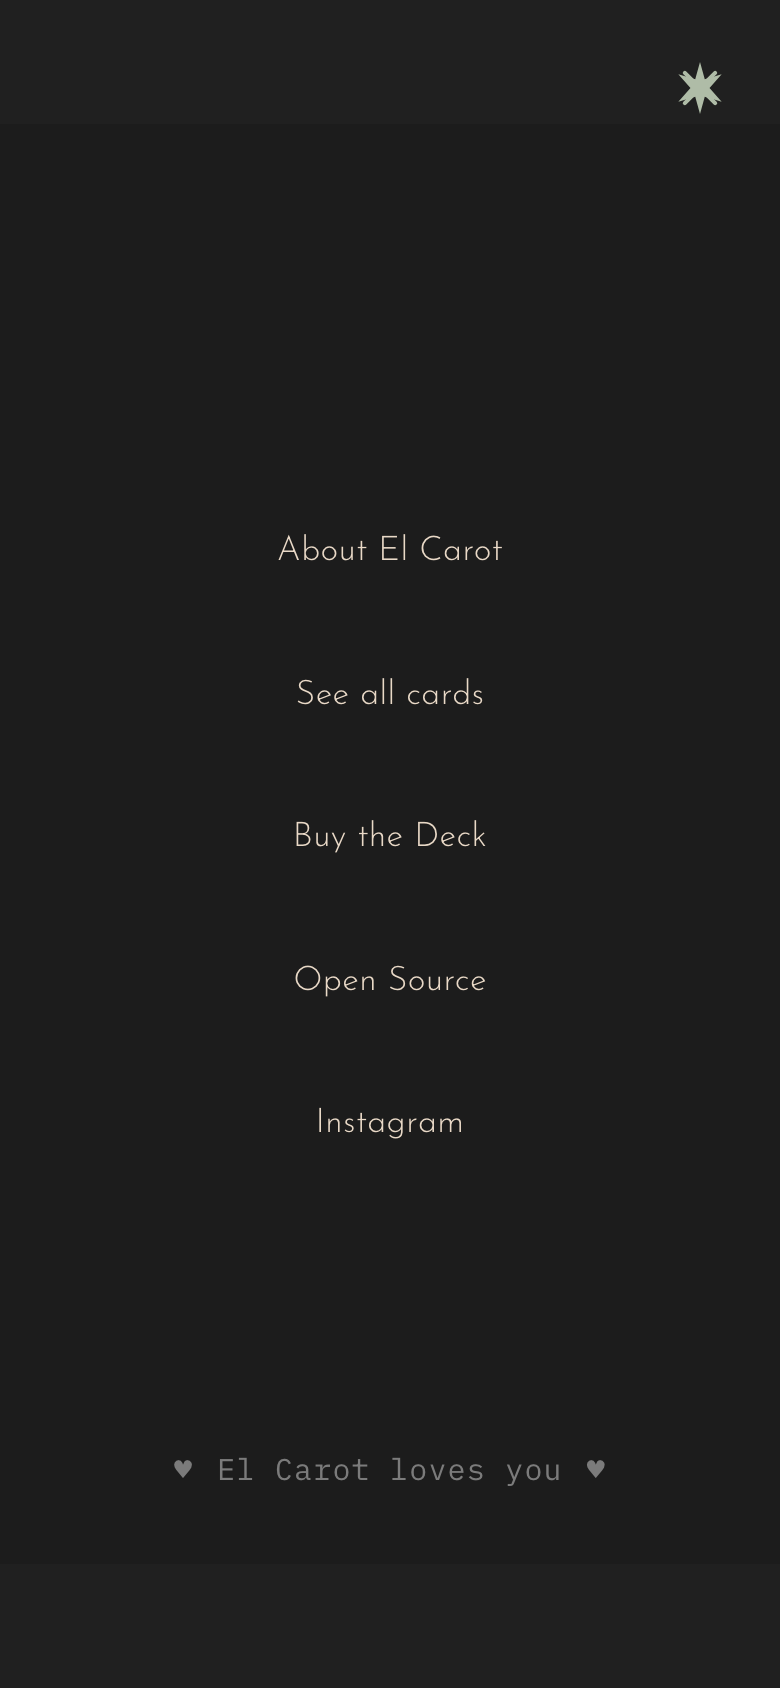
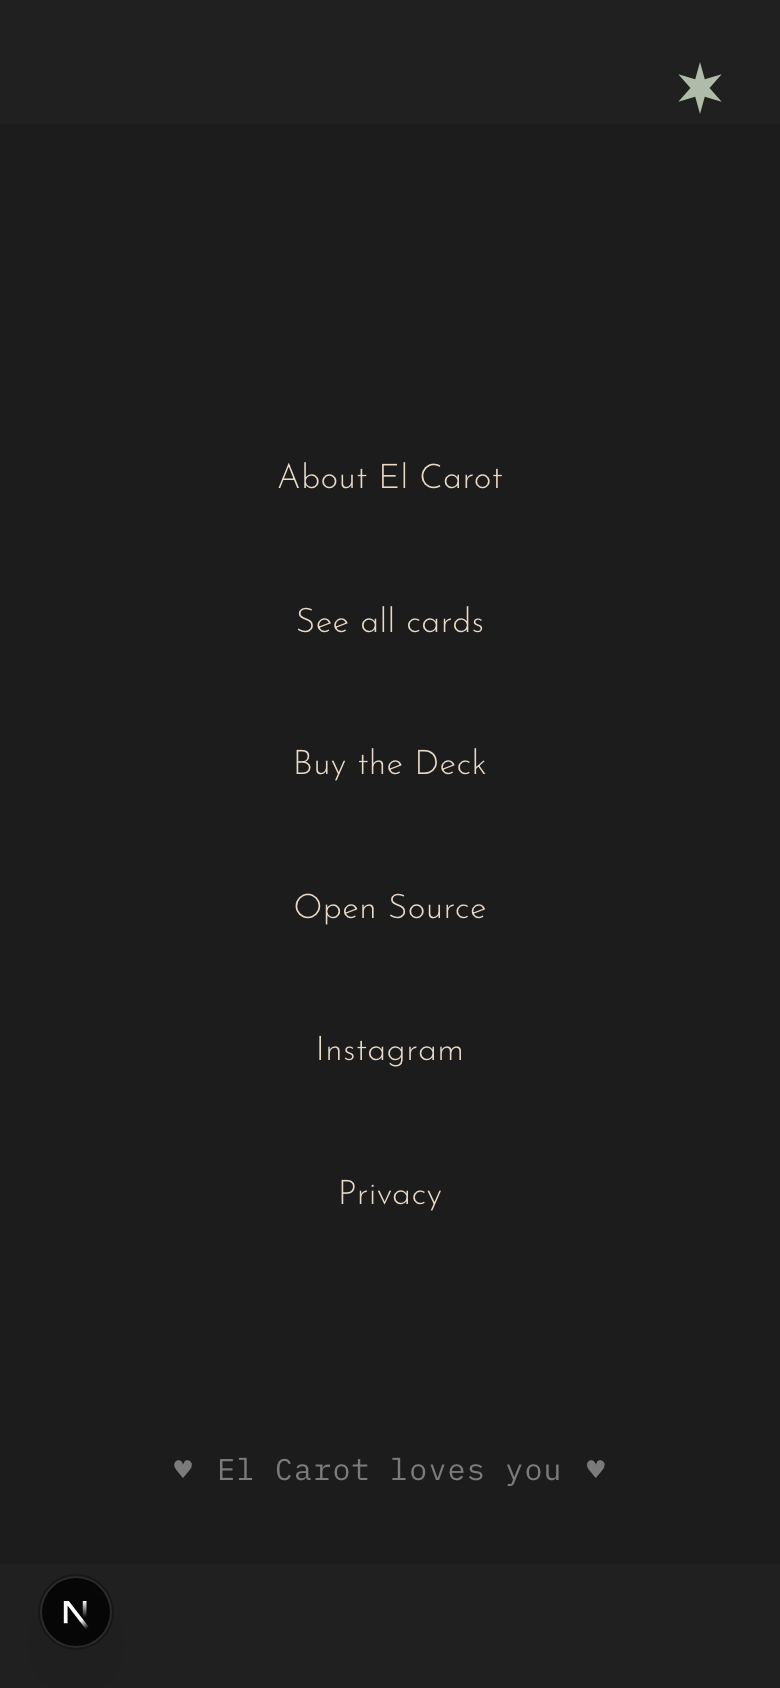
Add Privacy link to the menu and make the privacy policy web-only
- Star menu ends with a Privacy / Privacidad link that opens /privacy.
- Privacy policy now covers only the website and states what it keeps:
  asked questions (sent to Google Gemini for the interpretation), visit
  logs and public comments, with coarse geo only; no app/App Store copy.
- Interaction scenarios for the menu, the opened overlay and the
  language switch.

diff --git a/components/PrivacyScreen.tsx b/components/PrivacyScreen.tsx
@@ -7,9 +7,9 @@ import { BackHeader } from '@/components/BackHeader';
 import { DesktopNav } from '@/components/DesktopNav';
 
 /**
- * The privacy policy — required by the App Store, and short because there is
- * genuinely nothing to disclose: El Carot has no backend, so nothing a reader
- * does here or in the app leaves their device.
+ * The website's privacy policy. It covers only the website — there is no app
+ * release — and states exactly what the site keeps: asked questions, visits and
+ * comments (see prisma/schema.prisma), with coarse geo only (lib/geo.ts).
  *
  * Copy lives in this file rather than in lib/i18n's shared dictionary. A legal
  * document is versioned and reviewed as one artefact — splitting it across a
@@ -25,64 +25,64 @@ const COPY: Record<'es' | 'en', { context: string; title: string; updated: strin
   es: {
     context: 'Privacidad',
     title: 'Política de privacidad',
-    updated: 'Última actualización: 30 de julio de 2026',
-    lead: 'El Carot guarda lo mínimo. En la app, nada sale de tu teléfono. En el sitio guardamos las preguntas que se escriben, sin saber quién las escribió.',
+    updated: 'Última actualización: 5 de octubre de 2026',
+    lead: 'El Carot guarda lo mínimo. No hay cuentas ni publicidad: guardamos las preguntas y los comentarios que se dejan en el sitio, sin saber quién los escribió.',
     sections: [
       {
         heading: 'Qué guardamos',
-        body: 'En la app, nada: no hay servidores donde guardar nada tuyo. En el sitio guardamos las preguntas y qué carta salió, para entender qué se le pregunta al mazo. No hay cuentas, ni publicidad, ni rastreadores, ni forma de vincular una pregunta con una persona.',
-      },
-      {
-        heading: 'Qué se guarda en tu dispositivo',
-        body: 'Las cartas que sacaste y su historial, la carta del día y su fecha, y tu preferencia de idioma. Todo eso vive en el almacenamiento local de tu navegador o de la app, y desaparece si borrás los datos del sitio o desinstalás la app.',
+        body: 'Las preguntas que le hacés al mazo y qué carta salió, para entender qué se le pregunta. Un registro de visitas, una vez por sesión: qué página se abrió y cuándo. Y los comentarios que decidas dejar. Junto a las preguntas y las visitas guardamos sólo el país, la región y la zona horaria aproximados; nunca tu dirección IP ni tu ubicación exacta. No hay cuentas, ni publicidad, ni rastreadores de terceros.',
       },
       {
         heading: 'Las preguntas que escribís',
-        body: 'En la app se resuelven en tu teléfono y no viajan a ningún lado. En el sitio quedan guardadas sin identificar: no sabemos de quién es cada una. Como se escriben libremente, te pedimos que no incluyas datos personales.',
+        body: 'Para escribir la interpretación de tu carta, la pregunta se envía a Google (Gemini) junto con la carta que salió. Quedan guardadas sin identificar: no sabemos de quién es cada una. Como se escriben libremente, te pedimos que no incluyas datos personales.',
       },
       {
-        heading: 'Iniciar sesión',
-        body: 'En la app iniciar sesión es opcional y todo funciona sin hacerlo. Si usás Sign in with Apple o tu cuenta de Google, el nombre y el correo que el proveedor devuelva se guardan sólo en tu teléfono, para saludarte por tu nombre y mantener tus cartas en su propio cajón. No se transmiten a ningún servidor nuestro, y no le damos a Google ni a Apple ninguna información sobre lo que hacés en la app.',
+        heading: 'Los comentarios',
+        body: 'Los comentarios son públicos: cualquiera que visite el sitio puede ver el nombre que pongas y lo que escribas. Usá el nombre que quieras y no incluyas datos personales. Si querés que borremos un comentario tuyo, escribinos.',
+      },
+      {
+        heading: 'Qué se guarda en tu navegador',
+        body: 'Sólo tu preferencia de idioma, en el almacenamiento local de tu navegador y en una cookie, y una marca que dura lo que dura la sesión para contar tu visita una sola vez. Desaparecen si borrás los datos del sitio.',
       },
       {
         heading: 'Menores de edad',
-        body: 'El Carot no está dirigido a menores de 13 años. No pedimos edad, nombre ni ningún dato que permita identificar a quien usa la app o el sitio.',
+        body: 'El Carot no está dirigido a menores de 13 años. No pedimos edad ni ningún dato que permita identificar a quien usa el sitio.',
       },
       {
         heading: 'Cambios en esta política',
-        body: 'Si en el futuro El Carot llegara a recopilar algún dato, actualizaremos esta página antes de que ese cambio llegue a la App Store.',
+        body: 'Si en el futuro El Carot cambia lo que guarda, actualizaremos esta página antes de que ese cambio entre en vigor.',
       },
     ],
   },
   en: {
     context: 'Privacy',
     title: 'Privacy Policy',
-    updated: 'Last updated: 30 July 2026',
-    lead: 'El Carot keeps as little as possible. In the app, nothing leaves your phone. On the website we keep the questions people type, without knowing who typed them.',
+    updated: 'Last updated: 5 October 2026',
+    lead: 'El Carot keeps as little as possible. There are no accounts and no advertising: we keep the questions and comments people leave on the site, without knowing who wrote them.',
     sections: [
       {
         heading: 'What we keep',
-        body: 'In the app, nothing: there are no servers on which to keep anything of yours. On the website we keep the questions and which card came up, to understand what people ask the deck. There are no accounts, no advertising, no trackers, and no way to tie a question to a person.',
-      },
-      {
-        heading: 'What is stored on your device',
-        body: 'The cards you have drawn and their history, the card of the day and its date, and your language preference. All of it lives in your browser or app local storage, and disappears if you clear the site data or uninstall the app.',
+        body: 'The questions you ask the deck and which card came up, to understand what people ask it. A log of visits, once per session: which page was opened and when. And any comments you choose to leave. Alongside questions and visits we keep only your approximate country, region and time zone — never your IP address or exact location. There are no accounts, no advertising, and no third-party trackers.',
       },
       {
         heading: 'The questions you type',
-        body: 'In the app they are handled on your phone and travel nowhere. On the website they are kept without identification: we do not know whose each one is. Since they are written freely, please do not include personal details.',
+        body: 'To write the interpretation of your card, your question is sent to Google (Gemini) along with the card that came up. Questions are kept without identification: we do not know whose each one is. Since they are written freely, please do not include personal details.',
       },
       {
-        heading: 'Signing in',
-        body: 'In the app, signing in is optional and everything works without it. If you use Sign in with Apple or your Google account, the name and email the provider returns are stored only on your phone, so the app can greet you by name and keep your cards in their own drawer. They are never sent to any server of ours, and we tell neither Google nor Apple anything about what you do in the app.',
+        heading: 'Comments',
+        body: 'Comments are public: anyone visiting the site can see the name you give and what you write. Use any name you like and leave out personal details. If you want a comment of yours removed, write to us.',
+      },
+      {
+        heading: 'What is stored in your browser',
+        body: 'Only your language preference, in your browser’s local storage and in a cookie, plus a marker that lasts for the session so your visit is counted once. Both disappear if you clear the site data.',
       },
       {
         heading: 'Children',
-        body: 'El Carot is not directed at children under 13. We do not ask for an age, a name, or anything else that would identify whoever is using the app or the site.',
+        body: 'El Carot is not directed at children under 13. We do not ask for an age or anything else that would identify whoever is using the site.',
       },
       {
         heading: 'Changes to this policy',
-        body: 'If El Carot ever begins collecting data, we will update this page before that change reaches the App Store.',
+        body: 'If El Carot ever changes what it keeps, we will update this page before that change takes effect.',
       },
     ],
   },

diff --git a/app/isolated-components/MenuOverlay/page.tsx b/app/isolated-components/MenuOverlay/page.tsx
@@ -1,7 +1,25 @@
 'use client';
+import { Suspense } from 'react';
+import { useSearchParams } from 'next/navigation';
 import { MenuOverlay } from '@/components/MenuOverlay';
-export default function Page() {
-  return (<div id="codeyam-capture" style={{ position: 'relative', background: 'var(--carot-screen)', width: 390, height: 160 }}>
-    <MenuOverlay />
+import { MenuProvider } from '@/lib/menu';
+
+function Frame() {
+  // `?s=Open` gives the overlay a full phone-height frame so the opened menu is
+  // visible; the default keeps the short frame that shows only the star.
+  const open = useSearchParams().get('s') === 'Open';
+  // Own MenuProvider so tapping this star doesn't also open the root layout's menu.
+  return (<div id="codeyam-capture" style={{ position: 'relative', background: 'var(--carot-screen)', width: 390, height: open ? 720 : 160, overflow: 'hidden' }}>
+    <MenuProvider>
+      <MenuOverlay />
+    </MenuProvider>
   </div>);
+}
+
+export default function Page() {
+  return (
+    <Suspense>
+      <Frame />
+    </Suspense>
+  );
 }

diff --git a/app/isolated-components/CarotMenu/page.tsx b/app/isolated-components/CarotMenu/page.tsx
@@ -1,7 +1,16 @@
 'use client';
+import React from 'react';
 import { CarotMenu } from '@/components/CarotMenu';
 export default function Page() {
+  // Shows which nav callback the last tap fired, so an interaction scenario can
+  // prove each in-site link (About / All cards / Privacy) is wired.
+  const [tapped, setTapped] = React.useState<string | null>(null);
   return (<div id="codeyam-capture" style={{ position: 'relative', background: 'var(--carot-screen)', width: 390, height: 720, overflow: 'hidden' }}>
-    <CarotMenu onAbout={() => {}} onGallery={() => {}} />
+    <CarotMenu onAbout={() => setTapped('about')} onGallery={() => setTapped('gallery')} onPrivacy={() => setTapped('privacy')} />
+    {tapped && (
+      <div data-tapped={tapped} style={{ position: 'absolute', left: 0, right: 0, bottom: 8, zIndex: 700, textAlign: 'center', fontFamily: 'var(--font-mono)', fontSize: 12, color: 'var(--carot-sage-light)' }}>
+        tapped: {tapped}
+      </div>
+    )}
   </div>);
 }

diff --git a/components/CarotMenu.tsx b/components/CarotMenu.tsx
@@ -8,9 +8,11 @@ import { CAROT_IG_URL, CAROT_OPEN_SOURCE_URL } from '@/lib/links';
 export function CarotMenu({
   onAbout,
   onGallery,
+  onPrivacy,
 }: {
   onAbout: () => void;
   onGallery: () => void;
+  onPrivacy: () => void;
 }) {
   const { t } = useCarot();
   const item: React.CSSProperties = {
@@ -64,6 +66,9 @@ export function CarotMenu({
         <a style={{ ...item, textDecoration: 'none' }} href={CAROT_IG_URL} target="_blank" rel="noopener noreferrer">
           {t.menuInstagram}
         </a>
+        <button style={item} onClick={onPrivacy}>
+          {t.menuPrivacy}
+        </button>
       </nav>
       <div
         style={{

diff --git a/lib/i18n.tsx b/lib/i18n.tsx
@@ -56,6 +56,7 @@ export const STRINGS = {
     menuBuy: 'Comprar Mazo',
     menuOpenSource: 'Open Source',
     menuInstagram: 'Instagram',
+    menuPrivacy: 'Privacidad',
     menuLove: 'El Carot te ama',
     footLove: 'te ama',
     // Footer
@@ -126,6 +127,7 @@ export const STRINGS = {
     menuBuy: 'Buy the Deck',
     menuOpenSource: 'Open Source',
     menuInstagram: 'Instagram',
+    menuPrivacy: 'Privacy',
     menuLove: 'El Carot loves you',
     footLove: 'loves you',
     footAbout: 'About El Carot',

diff --git a/components/MenuOverlay.tsx b/components/MenuOverlay.tsx
@@ -34,7 +34,7 @@ export function MenuOverlay() {
 
   return (
     <>
-      {open && <CarotMenu onAbout={() => goto('/about')} onGallery={() => goto('/gallery')} />}
+      {open && <CarotMenu onAbout={() => goto('/about')} onGallery={() => goto('/gallery')} onPrivacy={() => goto('/privacy')} />}
       {(!isDesktop || open) && <MenuToggle open={open} onToggle={toggle} label={open ? t.close : t.menu} />}
     </>
   );
